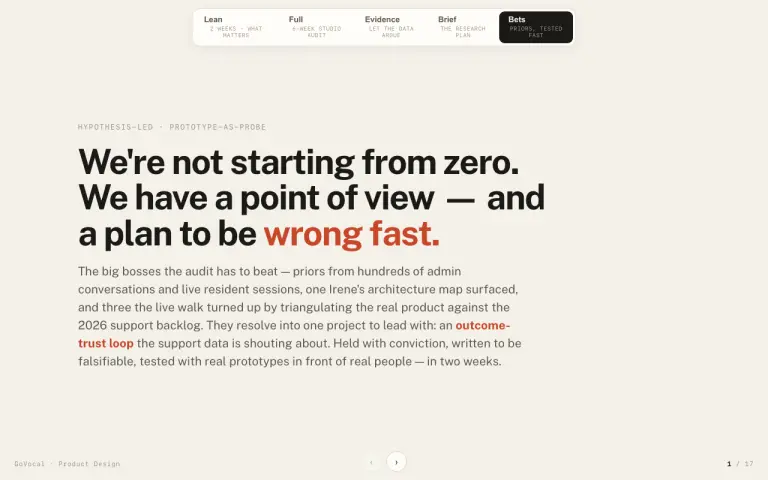
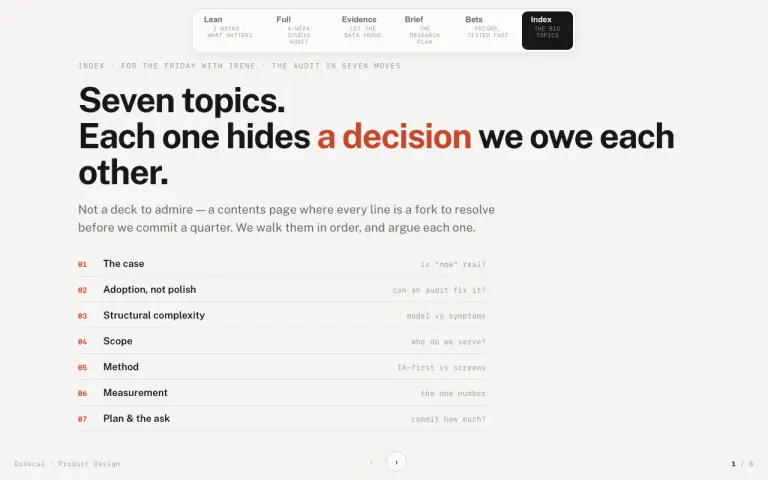
uxui-audit deck: add Index mode — contents + one slide per category, each a strategy fork for the Irene session

diff --git a/playground/uxui-audit-project/index.html b/playground/uxui-audit-project/index.html
@@ -188,14 +188,15 @@
     }
   </style>
 </head>
-<body data-mode="bets">
+<body data-mode="index">
 
   <nav class="switch" id="switch">
     <button data-m="lean"><span class="t">Lean</span><span class="s">2 weeks · what matters</span></button>
     <button data-m="full"><span class="t">Full</span><span class="s">6-week studio audit</span></button>
     <button data-m="evidence"><span class="t">Evidence</span><span class="s">let the data argue</span></button>
     <button data-m="brief"><span class="t">Brief</span><span class="s">the research plan</span></button>
-    <button data-m="bets" class="on"><span class="t">Bets</span><span class="s">priors, tested fast</span></button>
+    <button data-m="bets"><span class="t">Bets</span><span class="s">priors, tested fast</span></button>
+    <button data-m="index" class="on"><span class="t">Index</span><span class="s">the big topics</span></button>
   </nav>
   <div class="progress" id="progress"></div>
 
@@ -694,7 +695,7 @@
   </div>
 
   <!-- ════════════════════════════ BETS (hypothesis-led) ════════════════════════════ -->
-  <div class="deck on" data-deck="bets">
+  <div class="deck" data-deck="bets">
     <section class="slide">
       <div class="slide-inner">
         <p class="eyebrow">Hypothesis-led · prototype-as-probe</p>
@@ -945,6 +946,117 @@
     </section>
   </div>
 
+  <!-- ════════════════════════════ INDEX (the big topics · discussion spine) ════════════════════════════ -->
+  <div class="deck on" data-deck="index">
+    <section class="slide">
+      <div class="slide-inner">
+        <p class="eyebrow">Index · for the Friday with Irene · the audit in seven moves</p>
+        <h1>Seven topics.<br>Each one hides <span class="accent">a decision</span> we owe each other.</h1>
+        <p class="lead">Not a deck to admire — a contents page where every line is a fork to resolve before we commit a quarter. We walk them in order, and argue each one.</p>
+        <div class="index">
+          <div><span class="n">01</span><span class="l">The case</span><span class="d">is "now" real?</span></div>
+          <div><span class="n">02</span><span class="l">Adoption, not polish</span><span class="d">can an audit fix it?</span></div>
+          <div><span class="n">03</span><span class="l">Structural complexity</span><span class="d">model vs symptoms</span></div>
+          <div><span class="n">04</span><span class="l">Scope</span><span class="d">who do we serve?</span></div>
+          <div><span class="n">05</span><span class="l">Method</span><span class="d">IA-first vs screens</span></div>
+          <div><span class="n">06</span><span class="l">Measurement</span><span class="d">the one number</span></div>
+          <div><span class="n">07</span><span class="l">Plan &amp; the ask</span><span class="d">commit how much?</span></div>
+        </div>
+      </div>
+    </section>
+
+    <section class="slide">
+      <div class="slide-inner">
+        <p class="eyebrow">01 · the case</p>
+        <h2>Why now — or are we manufacturing the urgency?</h2>
+        <p class="lead">Three forces converge: <b>cost</b> (393 dispatch tickets, 68 still open), <b>competition</b> (Polis on deliberation, EngagementHQ on back-office maturity), and <b>compliance</b> (the European Accessibility Act in force since June 2025).</p>
+        <div class="grid g2">
+          <div class="card"><span class="lab">The honest case</span><p>The backlog is real and dated; the law has a deadline that already passed. This isn't a hunch — it's evidence with timestamps.</p></div>
+          <div class="card kill"><span class="lab">The challenge to it</span><p>A live sweep showed the product already fixed several old findings. Are we riding genuine urgency — or dressing a standing wish as a crisis?</p></div>
+        </div>
+        <div class="seam"><b>Decide Friday:</b> which single force leads the story? Compliance makes it a gate, not a vision. Adoption makes the tickets a sideshow. We can't headline all three.</div>
+      </div>
+    </section>
+
+    <section class="slide">
+      <div class="slide-inner">
+        <p class="eyebrow">02 · adoption, not polish</p>
+        <h2>The real problem is adoption. Can a UX/UI audit even fix that?</h2>
+        <p class="lead">Your brief leads here: project managers aren't adopting, infrequent users can't find their way back in, the tool feels too complex. "How might we get more people using it, sooner."</p>
+        <div class="grid g2">
+          <div class="card"><span class="lab">If it's a UX problem</span><p>Then findability, nesting and onboarding are the levers — an audit's home turf, and we can move them in weeks.</p></div>
+          <div class="card kill"><span class="lab">If it's a product problem</span><p>Then the fix is sunsetting features, changing workflows, integrating with Microsoft / SharePoint — beyond what a screen audit can touch.</p></div>
+        </div>
+        <div class="seam"><b>Decide Friday:</b> how far past "UI" is this audit allowed to range? If adoption is the goal, we may recommend killing features and rewiring workflows. Is that the mandate — or are we scoped to polish?</div>
+      </div>
+    </section>
+
+    <section class="slide">
+      <div class="slide-inner">
+        <p class="eyebrow">03 · structural complexity</p>
+        <h2>The complexity <span class="accent">is the model.</span> You can't restyle it away.</h2>
+        <p class="lead">Eleven back-office destinations, a survey edit six URL levels below <code>/admin</code>, the same setting (tags, access-rights, emails) configured in two homes — all projections of one spine: Project → Phase → Method.</p>
+        <div class="grid g2">
+          <div class="card"><span class="lab">Preserve, re-surface</span><p>Keep the expressive model; hide it behind progressive disclosure + templates so the simple town gets a short path. Choice A in your architecture map.</p></div>
+          <div class="card kill"><span class="lab">Challenge the model</span><p>Or go deeper — sunset folders / spaces, flatten the spine. But that's product and data-model work, not a redesign, and it needs engineering to cost.</p></div>
+        </div>
+        <div class="seam"><b>Decide Friday:</b> where's the line between <b>design</b> (changeable now) and <b>product / technical</b> (expensive, needs Koen &amp; James)? We need that line drawn before we promise an outcome.</div>
+      </div>
+    </section>
+
+    <section class="slide">
+      <div class="slide-inner">
+        <p class="eyebrow">04 · scope</p>
+        <h2>The whole loop — but who do we actually optimise for?</h2>
+        <p class="lead">One service, two surfaces: the resident front office (mobile) and the staff back office. Personas widen past power admins to <b>project managers and cross-department</b> users — plus residents (rare, engaged, skeptic).</p>
+        <div class="grid g2">
+          <div class="card"><span class="lab">Follow the evidence</span><p>The tickets are loudest on back-office <em>output trust</em> — reporting, AI-ignores-filter, emails. That's where the pain is countable.</p></div>
+          <div class="card kill"><span class="lab">Follow the brief</span><p>Adoption says lead with the infrequent PM getting in and finding their way — which the backlog barely registers. The two don't point the same way.</p></div>
+        </div>
+        <div class="seam"><b>Decide Friday:</b> wide (both surfaces, thin) or deep (one surface, one segment)? Six weeks won't do both surfaces justice — we pick depth, or we pick coverage.</div>
+      </div>
+    </section>
+
+    <section class="slide">
+      <div class="slide-inner">
+        <p class="eyebrow">05 · method</p>
+        <h2>Workflows &amp; IA first — even though auditing screens is faster.</h2>
+        <p class="lead">Your steer: map core workflows and information architecture <em>before</em> any design. The studio spine underneath — Double Diamond, service blueprint, method-for-the-question, triangulate qual + quant.</p>
+        <div class="grid g2">
+          <div class="card"><span class="lab">Audit the screens</span><p>Fast, evidence-rich, already underway — but risks fixing symptoms on top of a structure we never questioned.</p></div>
+          <div class="card kill"><span class="lab">Map IA blank-slate</span><p>Slower, more strategic — the brief's ask. Holds us to "problems are clear, solutions aren't": validate direction before committing six months.</p></div>
+        </div>
+        <div class="seam"><b>Decide Friday:</b> how much do we validate before we build? A two-week probe sprint, or a six-week IA-first study? Same evidence, very different cadence.</div>
+      </div>
+    </section>
+
+    <section class="slide">
+      <div class="slide-inner">
+        <p class="eyebrow">06 · measurement</p>
+        <h2>If we can't baseline it <span class="accent">now,</span> we can't prove we fixed it.</h2>
+        <p class="lead">Capture a baseline before any change — NPS plus task-success on the core jobs — and re-measure the same tasks after. It's the only defensible ROI claim.</p>
+        <div class="grid g2">
+          <div class="card"><span class="lab">The candidates</span><p>Satisfaction (NPS) · adoption (active PMs, return rate) · cost (ticket volume) · civic (participation, representativeness — who showed up vs the city).</p></div>
+          <div class="card kill"><span class="lab">The honesty flag</span><p>SUS ≈68, SEQ ≈5.5, ~78% success are <em>industry</em> averages — useful to start, but we must re-base on our own data or the comparison lies.</p></div>
+        </div>
+        <div class="seam"><b>Decide Friday:</b> the <b>one number</b> we'll be judged on in six months — and capture its baseline this week, before anything changes.</div>
+      </div>
+    </section>
+
+    <section class="slide">
+      <div class="slide-inner">
+        <p class="eyebrow">07 · plan &amp; the ask</p>
+        <h2>How much do we commit <span class="accent">before</span> we've validated?</h2>
+        <p class="lead">Three shapes are on the table — the same evidence, different bets on certainty. Each is its own deck up top: Lean, Full / Brief, Bets.</p>
+        <div class="grid g2">
+          <div class="card"><span class="lab">Probe sprint · 2 weeks</span><p>Build rough prototypes as instruments, test the named bets with 5 residents + admins, return confirmed / killed / reshaped. Wrong-fast and cheap.</p></div>
+          <div class="card"><span class="lab">Studio audit · 6 weeks</span><p>Discover → Define → Develop → Deliver with stakeholder gates. Slower, more rigorous, more defensible to Wietse and the Circle.</p></div>
+        </div>
+        <div class="seam"><b>The ask:</b> what do we want green-lit on Friday, and from whom? A little access (Intercom, analytics, demo accounts), a Maze seat, and a recurring slot — then we start Monday.</div>
+      </div>
+    </section>
+  </div>
+
   <div class="brand" id="brand">GoVocal · Product Design</div>
   <div class="count"><b id="cur">1</b> / <span id="tot">1</span></div>
   <div class="nav"><button id="prev" aria-label="Previous">‹</button><button id="next" aria-label="Next">›</button></div>
@@ -953,7 +1065,7 @@
     const decks = {};
     document.querySelectorAll('.deck').forEach(d => decks[d.dataset.deck] = [...d.querySelectorAll('.slide')]);
     const idx = {}; Object.keys(decks).forEach(k => idx[k] = 0);
-    let mode = 'bets';
+    let mode = 'index';
     const prog = document.getElementById('progress'), cur = document.getElementById('cur'), tot = document.getElementById('tot');
     const prevB = document.getElementById('prev'), nextB = document.getElementById('next');
     const switchEl = document.getElementById('switch');
@@ -985,6 +1097,7 @@
       else if (e.key === '3') setMode('evidence');
       else if (e.key === '4') setMode('brief');
       else if (e.key === '5') setMode('bets');
+      else if (e.key === '6') setMode('index');
     });
     document.querySelectorAll('.deck').forEach(d => d.addEventListener('click', e => {
       if (e.target.closest('a,button')) return;
@@ -995,7 +1108,7 @@
     addEventListener('touchstart', e => tx = e.touches[0].clientX, {passive:true});
     addEventListener('touchend', e => { const dx = e.changedTouches[0].clientX - tx; if (Math.abs(dx) > 50) go(dx < 0 ? 1 : -1); }, {passive:true});
 
-    const h = (location.hash || '').replace('#','').match(/^(lean|full|evidence|brief|bets)(\d+)?$/);
+    const h = (location.hash || '').replace('#','').match(/^(lean|full|evidence|brief|bets|index)(\d+)?$/);
     if (h) { mode = h[1]; idx[mode] = h[2] ? Math.max(0, +h[2] - 1) : 0; }
     render();
   </script>
